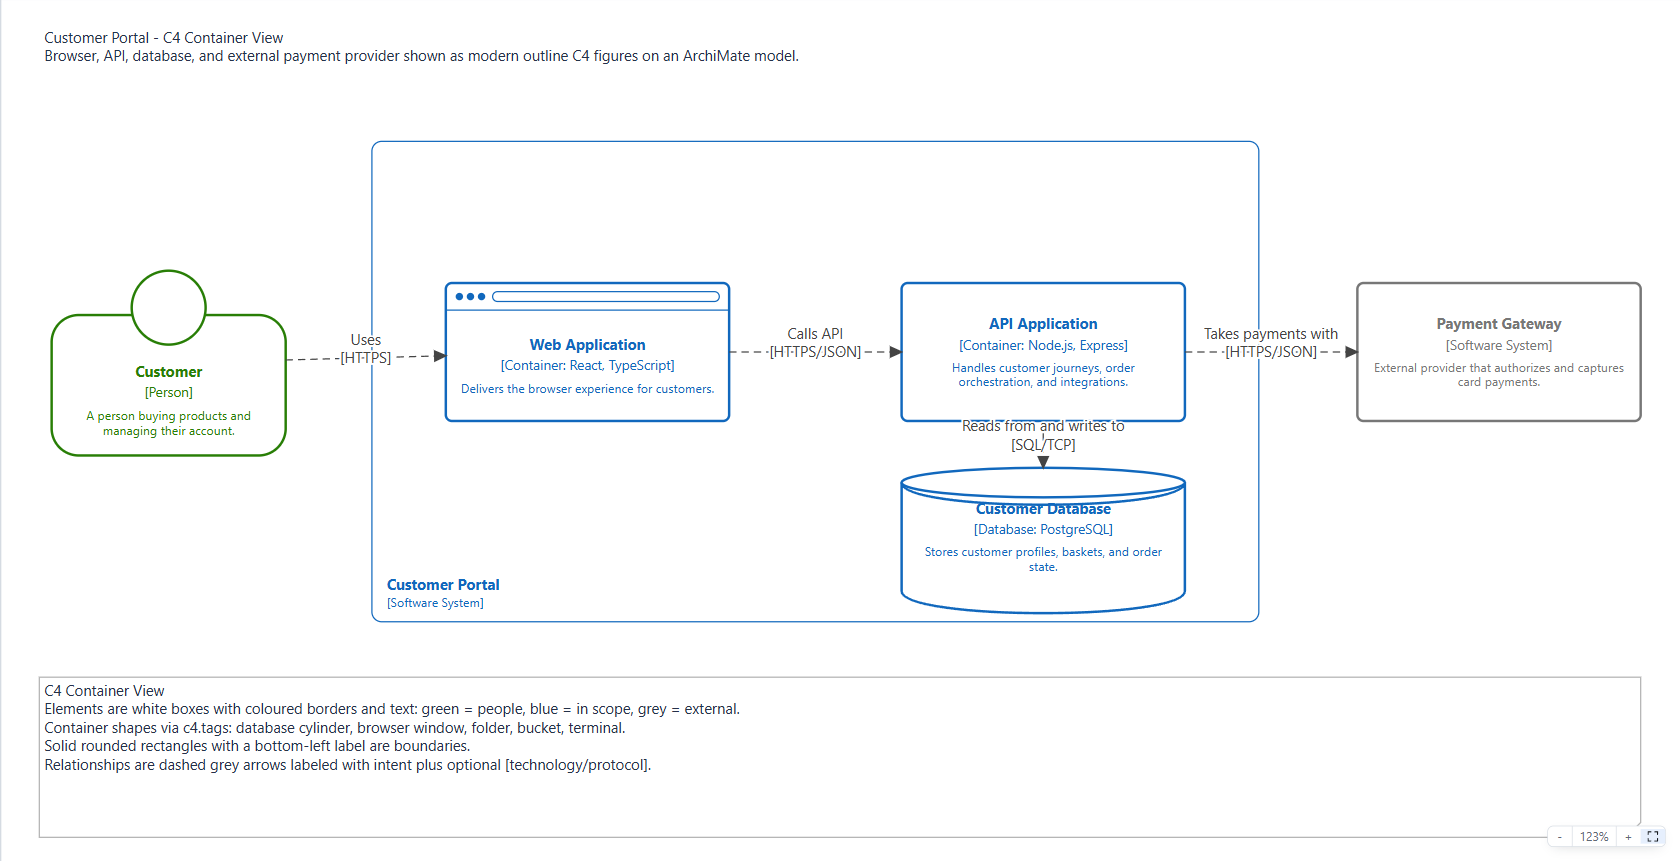
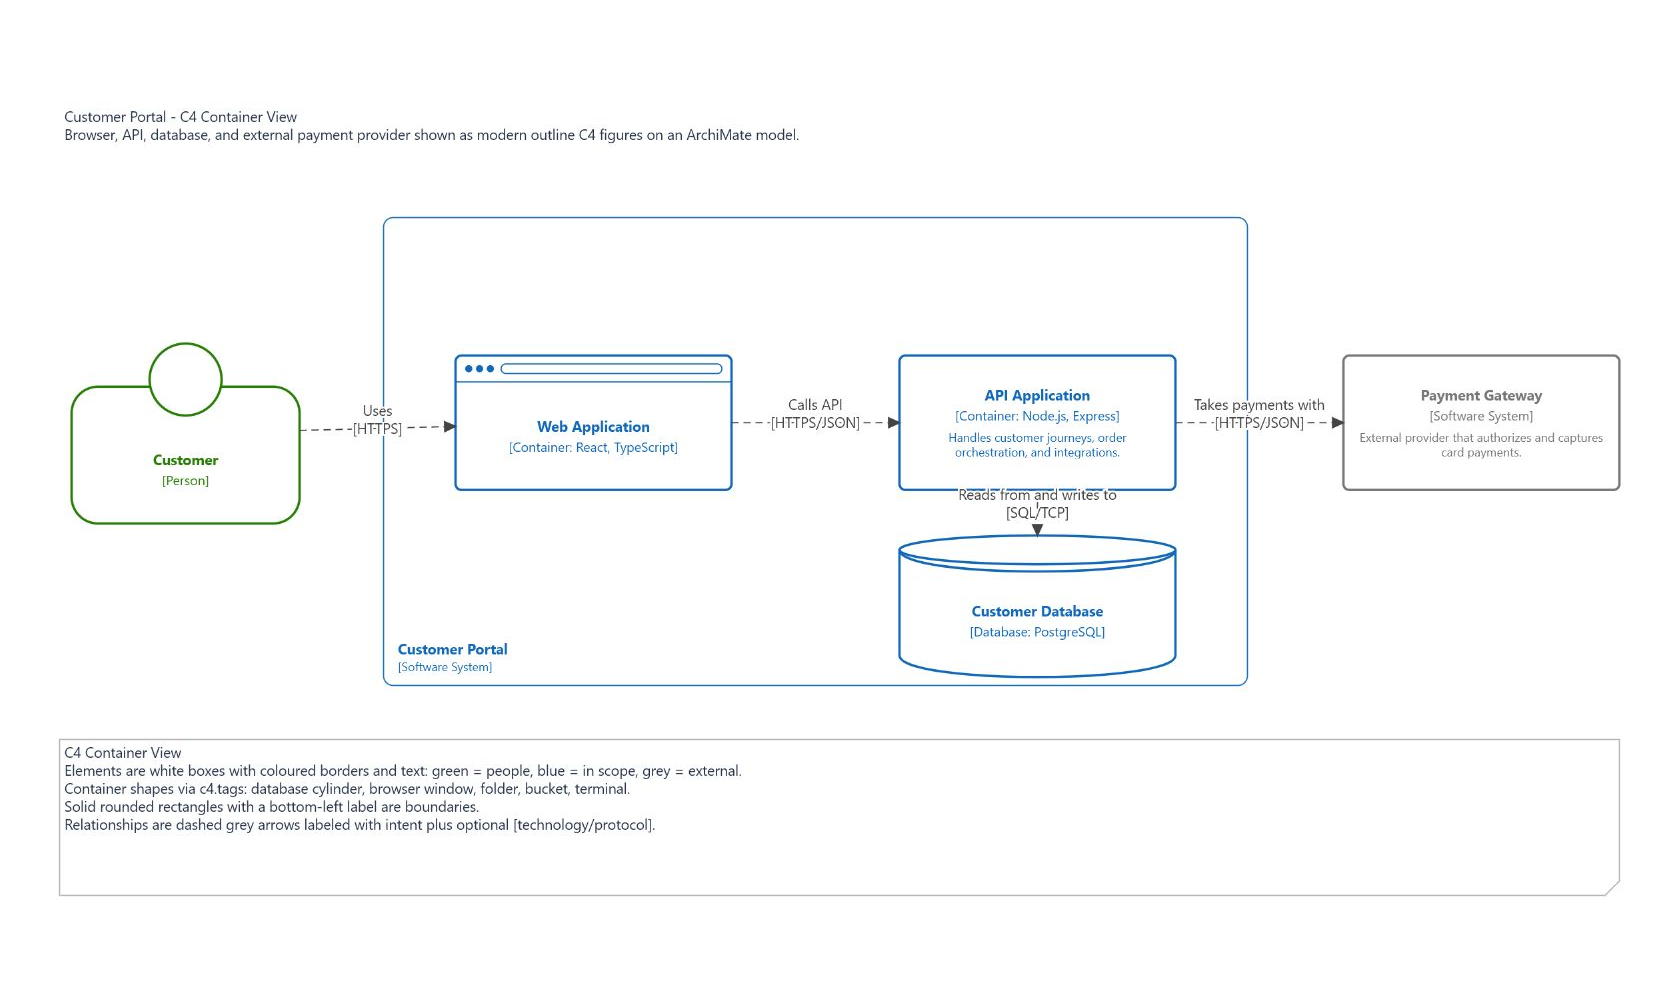
Polish modern C4 shapes

diff --git a/tests/c4-ui.test.ts b/tests/c4-ui.test.ts
@@ -150,6 +150,9 @@ describe('C4 UI affordances', () => {
       expect(button, `Expected ${title} palette button`).not.toBeNull();
       expect(button?.querySelector(`[data-c4-palette-icon="${icon}"]`)).not.toBeNull();
     }
+    expect(
+      host.querySelector('[data-c4-palette-icon="folder"] path')?.getAttribute('d'),
+    ).toBe('M2,15 V3 H8 L9.5,5 H16 V15 Z');
 
     const containerButton = host.querySelector<HTMLButtonElement>('button[title="C4 Container"]');
     expect(containerButton).not.toBeNull();
@@ -501,8 +504,13 @@ describe('C4 UI affordances', () => {
     expect(smallLabel.textContent).toContain('API Application');
     expect(smallLabel.textContent).toContain('[Container: Node.js, Express]');
     expect(smallLabel.textContent).not.toContain(description);
-    for (const labelCase of ['default', ...standardShapes, 'person']) {
+    for (const labelCase of ['default', 'person']) {
       expect(host.querySelector(`[data-label-size="${labelCase}"]`)?.textContent).toContain(
+        description,
+      );
+    }
+    for (const labelCase of standardShapes) {
+      expect(host.querySelector(`[data-label-size="${labelCase}"]`)?.textContent).not.toContain(
         description,
       );
     }
@@ -517,6 +525,72 @@ describe('C4 UI affordances', () => {
       host.querySelectorAll<HTMLDivElement>('[data-label-size="default"] foreignObject div'),
     ).find((item) => item.textContent === description);
     expect(descriptionItem?.style.overflow).toBe('hidden');
+
+    await act(async () => root.unmount());
+  });
+
+  it('keeps database and bucket labels below their caps and inside tapered walls', async () => {
+    const viewId = addView('Shape label geometry');
+    const figures = (['database', 'bucket'] as const).map((shape) => {
+      const { elementId, nodeId } = createC4ElementOnView(
+        'container',
+        viewId,
+        viewId,
+        { x: 0, y: 0, width: 250, height: 100 },
+        `${shape} service`,
+        { [C4_PROPERTY_KEYS.tags]: shape },
+      );
+      return { shape, element: model().elements[elementId], node: model().nodes[nodeId] };
+    });
+    const { host, root } = await render(createElement(
+      'svg',
+      null,
+      ...figures.map(({ shape, element, node }) => createElement(
+        'g',
+        { key: shape, 'data-label-geometry': shape },
+        createElement(NodeFigure, {
+          node,
+          element,
+          width: 250,
+          height: 100,
+          c4ViewType: 'container',
+        }),
+      )),
+    ));
+
+    const databaseLabel = host.querySelector('[data-label-geometry="database"] foreignObject');
+    expect(databaseLabel?.getAttribute('y')).toBe('40');
+    const bucketLabel = host.querySelector('[data-label-geometry="bucket"] foreignObject');
+    expect(bucketLabel?.getAttribute('x')).toBe('27');
+    expect(bucketLabel?.getAttribute('width')).toBe('196');
+
+    await act(async () => root.unmount());
+  });
+
+  it('clamps the person body geometry at extreme imported sizes', async () => {
+    const viewId = addView('Extreme person');
+    const { elementId, nodeId } = createC4ElementOnView(
+      'person',
+      viewId,
+      viewId,
+      { x: 0, y: 0, width: 40, height: 8 },
+      'Tiny person',
+    );
+    const { host, root } = await render(createElement(
+      'svg',
+      null,
+      createElement(NodeFigure, {
+        node: model().nodes[nodeId],
+        element: model().elements[elementId],
+        width: 40,
+        height: 8,
+        c4ViewType: 'system-context',
+      }),
+    ));
+
+    const body = host.querySelector('[data-c4-shape="person"]');
+    expect(body?.getAttribute('height')).toBe('0');
+    expect(body?.getAttribute('rx')).toBe('0');
 
     await act(async () => root.unmount());
   });

diff --git a/src/canvas/figures/NodeFigure.tsx b/src/canvas/figures/NodeFigure.tsx
@@ -370,7 +370,7 @@ export function NodeFigure({
     extraTop = 0,
   ) {
     const availableHeight = Math.max(0, h - inset * 2 - extraTop);
-    const showDescription = parts.description && h >= 92;
+    const showDescription = parts.description && availableHeight >= 72;
     return (
       <foreignObject
         x={inset}
@@ -436,34 +436,37 @@ export function NodeFigure({
     c4Stroke: string,
     c4StrokeWidth: number,
     visual: C4VisualStyle,
-  ) {
+  ): { body: ReactNode; labelTop: number } {
     const capH = Math.min(24, Math.max(14, h * 0.24));
-    return (
-      <g>
-        <path
-          data-c4-shape={visual.shape}
-          d={`M0,${capH / 2} V${h - capH / 2} C0,${h + capH / 2} ${w},${h + capH / 2} ${w},${h - capH / 2} V${capH / 2} C${w},${capH * 1.5} 0,${capH * 1.5} 0,${capH / 2} Z`}
-          fill={fill}
-          fillOpacity={fillOpacity}
-          stroke={c4Stroke}
-          strokeOpacity={lineAlpha}
-          strokeWidth={c4StrokeWidth}
-          strokeDasharray={strokeDasharray}
-        />
-        <ellipse
-          cx={w / 2}
-          cy={capH / 2}
-          rx={w / 2}
-          ry={capH / 2}
-          fill={fill}
-          fillOpacity={fillOpacity}
-          stroke={c4Stroke}
-          strokeOpacity={lineAlpha}
-          strokeWidth={c4StrokeWidth}
-          strokeDasharray={strokeDasharray}
-        />
-      </g>
-    );
+    return {
+      body: (
+        <g>
+          <path
+            data-c4-shape={visual.shape}
+            d={`M0,${capH / 2} V${h - capH / 2} C0,${h + capH / 2} ${w},${h + capH / 2} ${w},${h - capH / 2} V${capH / 2} C${w},${capH * 1.5} 0,${capH * 1.5} 0,${capH / 2} Z`}
+            fill={fill}
+            fillOpacity={fillOpacity}
+            stroke={c4Stroke}
+            strokeOpacity={lineAlpha}
+            strokeWidth={c4StrokeWidth}
+            strokeDasharray={strokeDasharray}
+          />
+          <ellipse
+            cx={w / 2}
+            cy={capH / 2}
+            rx={w / 2}
+            ry={capH / 2}
+            fill={fill}
+            fillOpacity={fillOpacity}
+            stroke={c4Stroke}
+            strokeOpacity={lineAlpha}
+            strokeWidth={c4StrokeWidth}
+            strokeDasharray={strokeDasharray}
+          />
+        </g>
+      ),
+      labelTop: capH * 1.25,
+    };
   }
 
   function c4PersonBody(
@@ -474,7 +477,8 @@ export function NodeFigure({
   ): { body: ReactNode; labelTop: number } {
     const headR = Math.max(10, Math.min(w * 0.16, h * 0.22, 30));
     const boxY = headR * 1.2;
-    const rx = Math.min(22, (h - boxY) / 3, w / 4);
+    const bodyHeight = Math.max(0, h - boxY);
+    const rx = Math.max(0, Math.min(22, bodyHeight / 3, w / 4));
     return {
       body: (
         <g>
@@ -483,7 +487,7 @@ export function NodeFigure({
             x={0}
             y={boxY}
             width={w}
-            height={h - boxY}
+            height={bodyHeight}
             rx={rx}
             ry={rx}
             fill={fill}
@@ -594,7 +598,7 @@ export function NodeFigure({
     fillOpacity: number,
     c4Stroke: string,
     c4StrokeWidth: number,
-  ): { body: ReactNode; labelTop: number } {
+  ): { body: ReactNode; labelTop: number; labelInset: number } {
     const topRy = Math.max(8, Math.min(14, h * 0.12));
     const inset = Math.min(w * 0.14, 34);
     const botRy = topRy * 0.8;
@@ -627,6 +631,7 @@ export function NodeFigure({
         </g>
       ),
       labelTop: topRy * 2,
+      labelInset: 10 + inset / 2,
     };
   }
 
@@ -700,12 +705,13 @@ export function NodeFigure({
 
     let body: ReactNode;
     let labelTop = 0;
+    let labelInset = 10;
     switch (visual.shape) {
       case 'person':
         ({ body, labelTop } = c4PersonBody(paint.fill, paint.opacity, c4Stroke, c4StrokeWidth));
         break;
       case 'database':
-        body = c4DatabaseBody(paint.fill, paint.opacity, c4Stroke, c4StrokeWidth, visual);
+        ({ body, labelTop } = c4DatabaseBody(paint.fill, paint.opacity, c4Stroke, c4StrokeWidth, visual));
         break;
       case 'browser':
         ({ body, labelTop } = c4BrowserBody(paint.fill, paint.opacity, lineColor, c4Stroke, c4StrokeWidth));
@@ -714,7 +720,7 @@ export function NodeFigure({
         ({ body, labelTop } = c4FolderBody(paint.fill, paint.opacity, c4Stroke, c4StrokeWidth));
         break;
       case 'bucket':
-        ({ body, labelTop } = c4BucketBody(paint.fill, paint.opacity, c4Stroke, c4StrokeWidth));
+        ({ body, labelTop, labelInset } = c4BucketBody(paint.fill, paint.opacity, c4Stroke, c4StrokeWidth));
         break;
       case 'terminal':
         body = c4TerminalBody(paint.fill, paint.opacity, lineColor, c4Stroke, c4StrokeWidth);
@@ -741,7 +747,7 @@ export function NodeFigure({
       <g>
         {paint.definition}
         {body}
-        {displayLabel !== undefined ? label(displayLabel, { inset: 10 }) : c4StructuredLabel(parts, textColor, 10, labelTop)}
+        {displayLabel !== undefined ? label(displayLabel, { inset: labelInset }) : c4StructuredLabel(parts, textColor, labelInset, labelTop)}
       </g>
     );
   }

diff --git a/src/ui/Palette.tsx b/src/ui/Palette.tsx
@@ -5,6 +5,7 @@ import {
   C4_ELEMENT_KIND_LABELS,
   C4_PALETTE_KINDS,
   C4_PROPERTY_KEYS,
+  c4ShapeTagOf,
   c4ViewType,
   type C4ElementKind,
 } from '../model/c4';
@@ -70,10 +71,8 @@ const C4_TOOLBOX: C4PaletteEntry[] = [
 ];
 
 function c4PaletteIcon(entry: C4PaletteEntry): C4PaletteIcon {
-  const shape = entry.properties?.[C4_PROPERTY_KEYS.tags];
-  return shape === 'database' || shape === 'browser' || shape === 'folder' || shape === 'bucket'
-    ? shape
-    : entry.kind;
+  const shape = c4ShapeTagOf(entry.properties?.[C4_PROPERTY_KEYS.tags]);
+  return shape && shape !== 'terminal' ? shape : entry.kind;
 }
 
 function C4PaletteGlyph({ icon }: { icon: C4PaletteIcon }) {
@@ -144,7 +143,7 @@ function C4PaletteGlyph({ icon }: { icon: C4PaletteIcon }) {
     case 'folder':
       return (
         <svg data-c4-palette-icon={icon} viewBox="0 0 18 18" width="16" height="16">
-          <path d="M2 5 H7 L8.5 3.2 H16 V14.8 H2 Z" fill={fill} stroke={stroke} strokeWidth="1.2" strokeLinejoin="round" />
+          <path d="M2,15 V3 H8 L9.5,5 H16 V15 Z" fill={fill} stroke={stroke} strokeWidth="1.2" strokeLinejoin="round" />
           <path d="M2.4 7 H15.6" stroke={stroke} strokeWidth="1.1" />
         </svg>
       );

diff --git a/src/ui/PropertiesPanel.tsx b/src/ui/PropertiesPanel.tsx
@@ -207,7 +207,7 @@ function C4Fields({
           <div className="prop-row">
             <label>C4 type</label>
             <select
-              value={c4KindForConcept(element) ?? ''}
+              value={elementKind ?? ''}
               disabled={readOnly}
               onChange={(e) => commit(C4_PROPERTY_KEYS.kind, e.target.value)}
             >